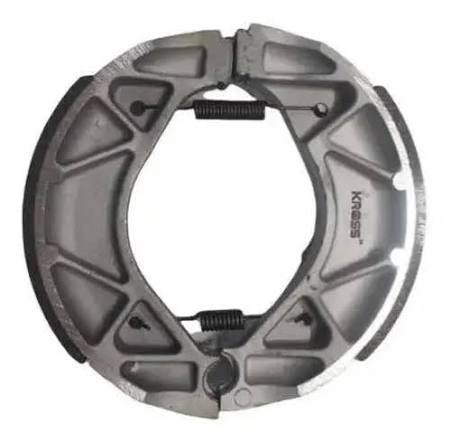
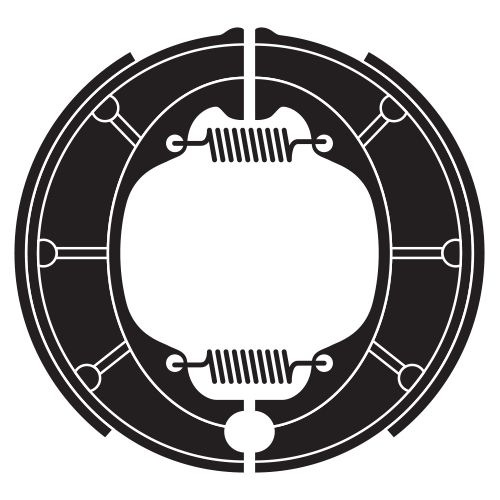
Add files via upload

diff --git a/script.js b/script.js
@@ -25,9 +25,9 @@ var PRODUCTOS = [
     { n: "Cámaras y neumáticos", c: "llantas", i: "🔘", img: "imagenes/camaras.jpg", full: true, d: "Cámaras, parches y válvulas.", k: "camara pinchazo rueda" },
 
     { n: "Pastillas de freno", c: "frenos", i: "🛑", img: "imagenes/pastillas-freno.jpg", d: "Pastillas delanteras y traseras de alto rendimiento.", k: "freno balatas frenar" },
-    { n: "Discos de freno", c: "frenos", i: "💿", img: "imagenes/discos-freno.jpg", d: "Discos ventilados para frenar con total confianza.", k: "freno disco" },
+    { n: "Discos de freno", c: "frenos", i: "💿", img: "imagenes/discos-freno.jpg", full: true, fit: "entera", d: "Discos ventilados para frenar con total confianza.", k: "freno disco" },
     { n: "Bandas y zapatas", c: "frenos", i: "🔩", img: "imagenes/bandas-zapatas.jpg", d: "Bandas de freno de tambor.", k: "freno tambor zapata" },
-    { n: "Cables y manguera de freno", c: "frenos", i: "〰", img: "imagenes/cables-freno.jpg", d: "Cables de freno, clutch y acelerador.", k: "guaya cable clutch" },
+    { n: "Cables y manguera de freno", c: "frenos", i: "〰", img: "imagenes/cables-freno.jpg", full: true, d: "Cables de freno, clutch y acelerador.", k: "guaya cable clutch" },
 
     { n: "Kit de arrastre", c: "transmision", i: "⛓", img: "imagenes/kit-arrastre.jpg", d: "Cadena, piñón y catalina en un solo kit.", k: "cadena pinon catalina cadenilla" },
     { n: "Cadena", c: "transmision", i: "🔗", img: "imagenes/cadena.jpg", d: "Cadenas reforzadas con retenes.", k: "cadenilla arrastre" },
@@ -103,7 +103,7 @@ function render(){
         art.style.animationDelay = (idx * 40) + "ms";
         art.innerHTML =
             (p.img
-                ? '<div class="foto-marco' + (p.full ? ' foto-plena' : '') + (p.fit ? ' foto-entera' : '') + '"><img class="foto" src="' + p.img + '?v=8" alt="' + p.n + '" loading="lazy"></div>'
+                ? '<div class="foto-marco' + (p.full ? ' foto-plena' : '') + (p.fit ? ' foto-entera' : '') + '"><img class="foto" src="' + p.img + '?v=9" alt="' + p.n + '" loading="lazy"></div>'
                 : '<div class="icono" aria-hidden="true">' + p.i + '</div>') +
             '<span class="cat">' + nombreCategoria(p.c) + '</span>' +
             '<h3>' + p.n + '</h3>' +
@@ -187,7 +187,7 @@ function crearCategorias(){
         b.type = "button";
         b.className = "categoria reveal";
         b.setAttribute("aria-label", "Ver " + c.nombre + " (" + total + " productos)");
-        b.innerHTML = '<span class="cat-foto"><img src="' + c.img + '?v=8" alt="" loading="lazy"></span>' +
+        b.innerHTML = '<span class="cat-foto"><img src="' + c.img + '?v=9" alt="" loading="lazy"></span>' +
             '<span class="cat-nombre"><span aria-hidden="true">' + c.icono + '</span> ' + c.nombre + '</span>' +
             '<small>' + total + ' productos · Ver →</small>';
         b.addEventListener("click", function(){

diff --git a/index.html b/index.html
@@ -9,7 +9,7 @@
     <title>FISHER Moto Parts | Repuestos y accesorios para moto</title>
 
     <!-- AQUI SE CONECTA EL CSS -->
-    <link rel="stylesheet" href="styles.css?v=8">
+    <link rel="stylesheet" href="styles.css?v=9">
 
     <!-- Sin JavaScript no se muestra la intro (para que la página nunca quede tapada) -->
     <noscript><style>#intro{display:none !important}</style></noscript>
@@ -279,6 +279,6 @@
     <p><a href="#inicio">Volver arriba ↑</a></p>
 </footer>
 
-<script src="script.js?v=8"></script>
+<script src="script.js?v=9"></script>
 </body>
 </html>
